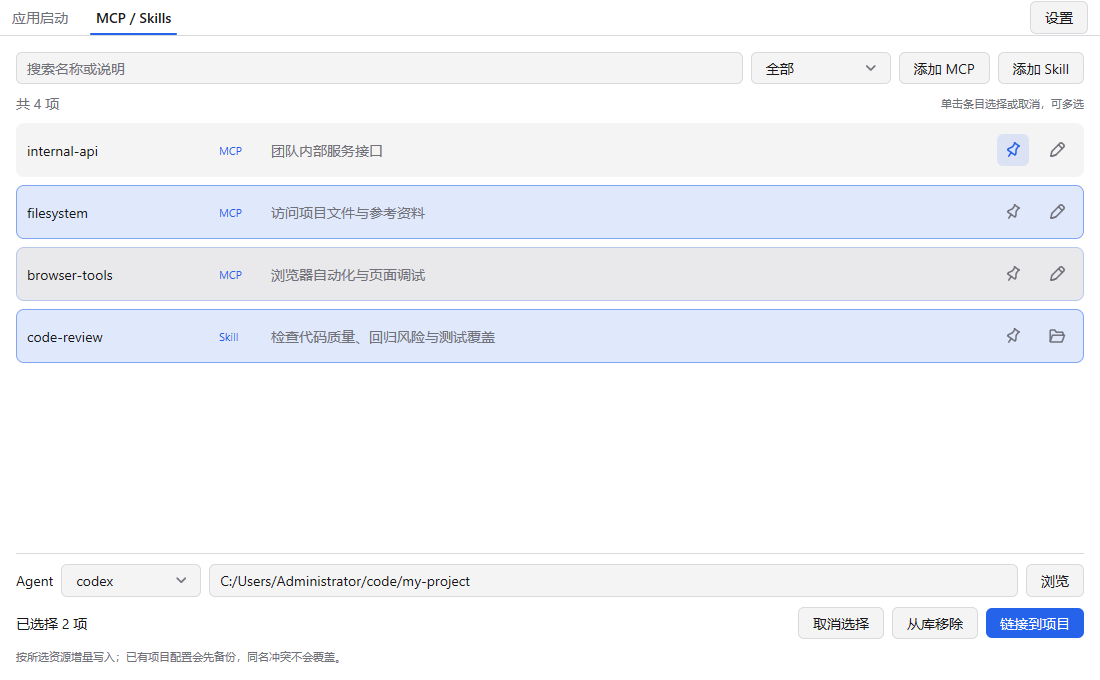
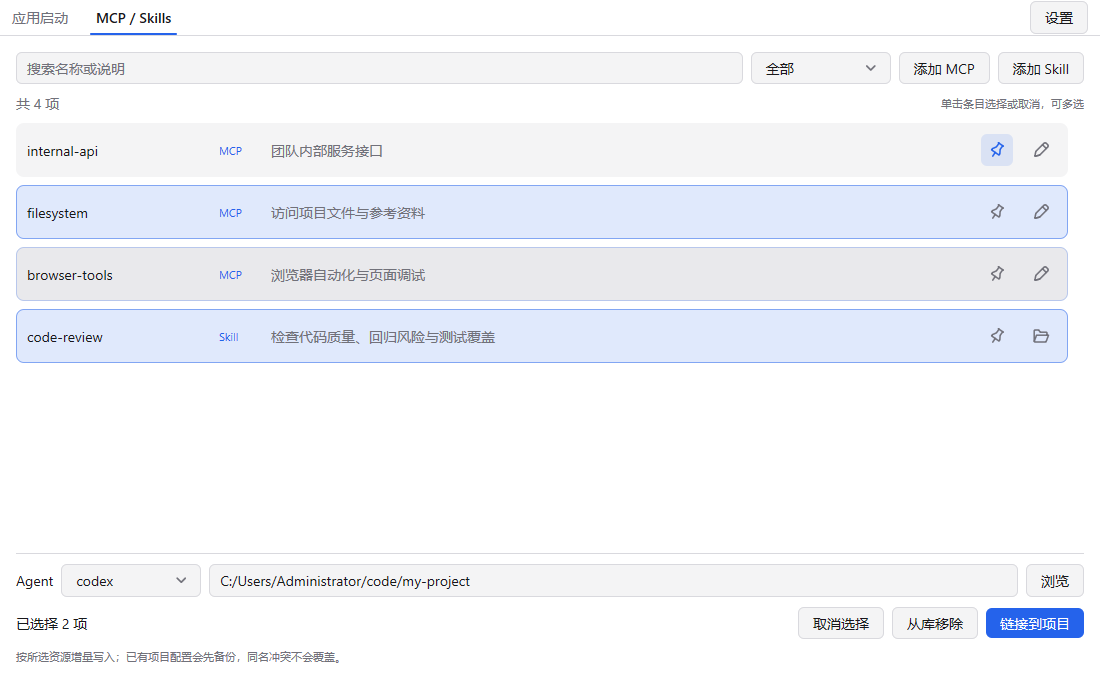
fix: reserve space for resource list scrollbar

diff --git a/internal/libraryui/panel.go b/internal/libraryui/panel.go
@@ -288,5 +288,5 @@ func (p *Panel) resourceList(c *ui.Context) {
 				p.edit(i)
 			}
 		})
-	}).Grow(1)
+	}).Grow(1).Padding(0, 16, 0, 0)
 }
